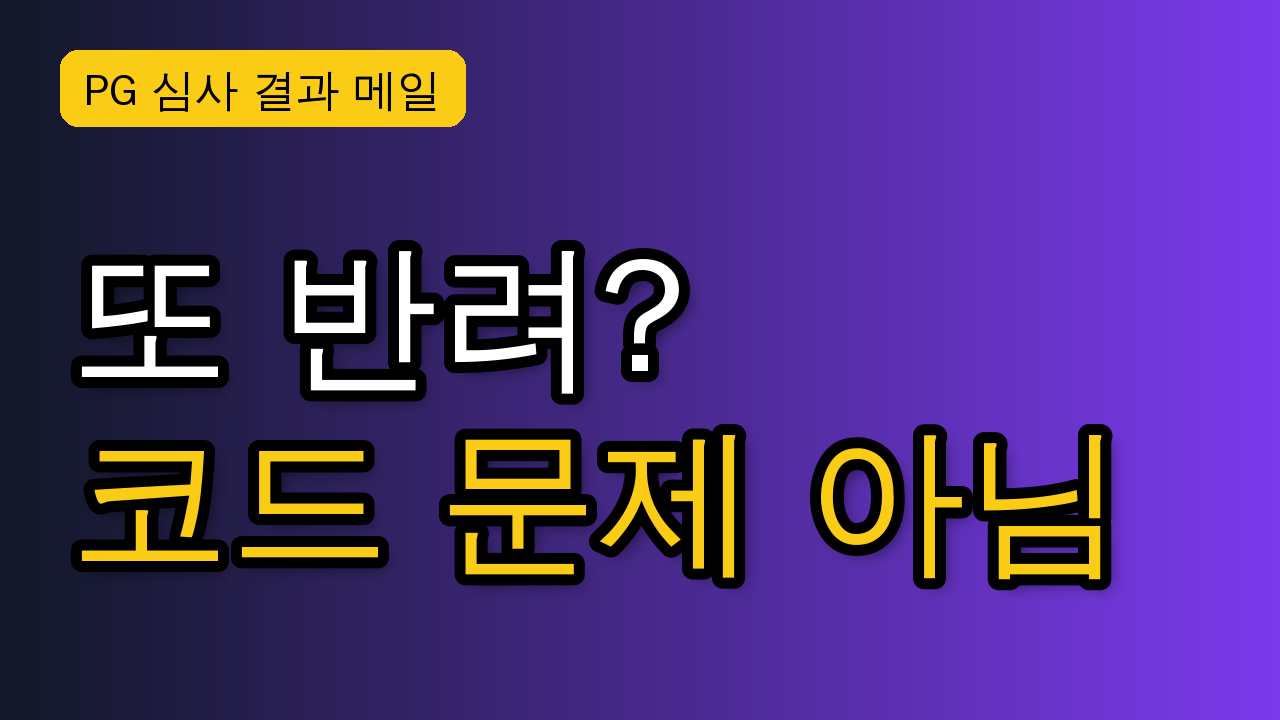
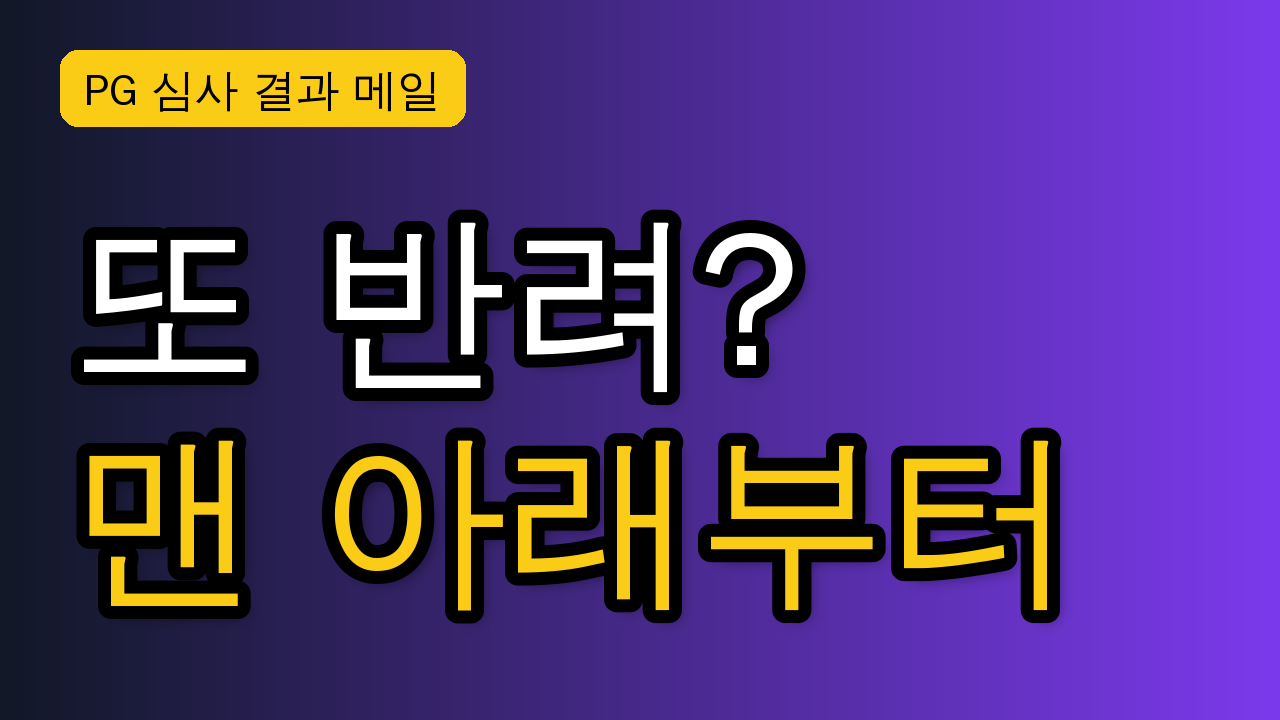
Apply first compliance review fixes to VibePay V2
Soften unsupported claims, correct source attribution, move the UTM
link to the first description line, replace the unclear fee line
pending confirmation, and rerender thumbnails A and B.

Claude-Session: https://claude.ai/code/session_0174QVYmDZzduetZizMu3yRM

Changed region(s): [[0.0312, 0.275, 0.875, 0.8861]]

diff --git a/episodes/vibepay/20261108-pg-reject-top7/review.md b/episodes/vibepay/20261108-pg-reject-top7/review.md
@@ -1,0 +1,59 @@
+# 컴플라이언스 검수: PG 심사 반려 사유 TOP 7 (vibepay V2)
+- 에피소드 id: 20261108-pg-reject-top7
+- 검수: compliance-reviewer · 2026-11-08
+- 대상: script.md, shorts.md, thumbnail.md, thumbnail_A/B/C.png(문구), metadata.json
+- 기준: brands/vibepay.md §4·§5·§6, research.md, brief.md(승인 ① 결과, 법령 확인 업데이트), CLAUDE.md 절대 규칙
+
+판정: FAIL
+
+(심각도 높음 1건: 설명란 "연관리비: 월 22,000원" 단위 모순. 이 줄만 고치면 나머지는 중간/낮음이라 재검수 시 PASS가 가능합니다. 중간 항목도 게시 전에 함께 반영하길 권장합니다.)
+
+## 체크리스트 결과 요약
+| 항목 | 결과 | 비고 |
+|---|---|---|
+| 바이브페이 주장 = §4 사실표 | 통과 | 8:40~9:14 개인 유형 신청, 준비물 6종, 영업일 기준 1~3일, 연동문서 이메일 + AI 명령문, 외부 API·서버 기능 필요, 신청만으로 활성화되지 않음 → 모두 §4와 일치 |
+| 심사 대행/지원/통과 보장 뉘앙스 | 통과 | "한 가지 경로 예시"로 소개. 8:22·설명란에 "통과 보장 아님" 명시. 쇼츠는 바이브페이 언급 없음 |
+| 심사 기간 표현 | 통과 | "영업일 기준 1~3일"만 사용(D+1 미사용) |
+| 수수료·가입비·관리비 숫자 위치 | 통과(설명란 표기 오류 1건은 #1) | script·shorts·썸네일 3장에 숫자 없음. 8:40 캡처 블러/크롭 지시 있음. 6:10 29,000/39,000원은 가상 상품 가격이며 "예시" 표기 지시 있음 |
+| 입증 불가 표현(100%·무조건·보장·최저·1위) | 통과 | 해당 표현 없음. "확실히"(8:22)만 완화 권장(#9) |
+| 전자상거래법 제13조 인용 | 통과 | "신고했다면 신고번호도 표시" 수준으로 brief 범위 안 |
+| 통신판매업 면제 기준 수치 | 통과 | 수치 없음, "관할 시·구청 확인"만 언급 |
+| 제10조 인용 | 조건부 | 항목 자체는 공정위 의결서(1차 출처)와 일치. 적용 대상 서술이 넓음(#4), 법령 원문 재확인 기록 없음(사람 확인) |
+| 청약철회 언급(4:20, 쇼츠 3) | 통과(출처 보강 권장 #10) | 조항·기간·조건 단정 없음 |
+| 면책 문구 | 부분 통과 | 대본 1:24·2:10, 쇼츠 1·3 있음. 설명란에 "전문가 확인 권장" 문구가 빠짐(#5) |
+| 타사 언급 | 통과(보완 #6·#8) | 내레이션은 "PG사 안내 자료"로 중립. 사명은 출처 표에만. 비방 없음 |
+| 썸네일·제목·설명 일치 | 보완 필요 | B안 "10분", A안 "코드 문제 아님"(#2·#3) |
+| UTM | 통과(위치 #7) | utm_source=youtube&utm_medium=video&utm_campaign=20261108-pg-reject-top7 형식 정확 |
+| containsSyntheticMedia | 사람 확인 | 현재 false. 상황극·썸네일 인물을 AI로 만들면 true |
+| madeForKids | 통과 | false |
+| privacyStatus | 통과 | private, publishAt 비어 있음(승인 ② 후 기입) |
+
+## 문제 목록
+| # | 파일 | 위치 | 문제 | 심각도 | 수정안 |
+|---|---|---|---|---|---|
+| 1 | metadata.json | description "■ 바이브페이 이용 조건" 3번째 줄 | "연관리비: 월 22,000원 (공통)" — 항목명은 '연'인데 금액은 '월'이라 단위가 모순됨. 사이트 원문 표기를 그대로 옮긴 것이지만, 설명란 요금 표기는 광고 표시라 연 22,000원인지 월 22,000원(연 264,000원)인지에 따라 시청자 부담이 12배 차이 남. 승인 ①의 "정확히" 조건도 충족하지 못함. brands/vibepay.md §4에도 같은 모순이 있음 | 높음 | 바이브페이 담당자에게 단위를 확인한 뒤 아래 중 하나로 교체. (연 단위로 확인되면) `- 연 관리비: 22,000원 (공통, 연 1회)` / (월 단위로 확인되면) `- 관리비: 월 22,000원 (공통)` / (게시 전까지 확인이 안 되면 이 줄을 지우고) `- 관리비 등 세부 요금은 바이브페이 사이트에서 확인하세요` |
+| 2 | thumbnail.md, thumbnail_B.png | B안 문구 "AI 한 줄로 / 10분 수정" | 영상 어디에도 "10분이면 고친다"는 내용이 없음(brief 핵심 메시지에만 있음). 영상은 프롬프트 7줄인데 "한 줄로"라고 해서 작업량을 실제보다 작게 보이게 함. 썸네일-내용 불일치(오해 유발 메타데이터) 소지 | 중간 | 문구를 `AI 프롬프트로 / 바로 수정`으로 바꾸거나, 1줄 `프롬프트 7줄` / 2줄 `그대로 공개`로 교체. "10분"을 유지하려면 대본 7:50에 "7개 다 고치는 데 10분이면 충분해요" 같은 문장을 넣고 실제 시연 시간으로 확인할 것 |
+| 3 | script.md / thumbnail_A.png | 0:12 "심사원은 여러분 코드를 안 봅니다", 썸네일 A "코드 문제 아님" | 출처 없는 단정. 대본 1:10은 "대부분"이라고 하고, 사유 5(로그인 벽)는 라우트 보호 코드를 고쳐야 하는 문제라 "코드 문제 아님"과 일부 어긋남 | 중간 | 0:12 내레이션: `근데요, 심사원은 여러분 코드보다 사이트 화면을 먼저 봅니다. 비회원으로 들어가서 맨 아래부터 봐요.` / 자막: `심사원은 코드보다 화면을 본다` / 썸네일 A 2줄: `코드보다 이것` 또는 `코드 말고 화면` (쇼츠 1 1.5–5초 내레이션·자막도 같은 문장으로 맞출 것) |
+| 4 | script.md, shorts.md | script 1:38 / 쇼츠 1 컷 1 | "온라인으로 물건이나 서비스를 파는 사이트라면 첫 화면에 표시해야 하는 정보가 있어요"는 제10조 적용 대상(통신판매업자인 사이버몰 운영자)보다 넓게 말함. 2:10의 비사업자 안내와 이어 보면, 비사업자에게 적용되는지 단정한 것처럼 들릴 수 있음 | 중간 | script 1:38: `온라인 쇼핑몰처럼 통신판매를 하는 사이트라면, 전자상거래법상 첫 화면에 표시해야 하는 정보가 있어요. 상호와 대표자 이름, 주소, 전화번호, 이메일, 사업자등록번호, 이용약관, 그리고 호스팅 제공자까지요.` / 쇼츠 1 컷 1: `통신판매를 하는 사이트라면 첫 화면에 표시해야 하는 정보가 있어요.` |
+| 5 | metadata.json | description 맨 아래 ※ 문구 | CLAUDE.md 절대 규칙 5의 "일반 정보이며 전문가 확인 권장" 중 "전문가 확인 권장"이 빠짐(대본 2:10에는 있음) | 중간 | `※ 본 영상은 일반 정보이며, 구체적인 심사 기준은 PG사·카드사마다 다릅니다. 사업자등록·통신판매업 신고 여부와 면제 기준 등 세무·법률 판단은 관할 세무서·시·구청 또는 세무사 등 전문가 확인을 권장합니다. 체크리스트를 모두 갖춰도 심사 통과가 보장되지는 않습니다.` |
+| 6 | script.md, shorts.md | script 5:45 / 쇼츠 2 컷 3 화면 지시 | "PG사 안내 자료에 따르면 심사원이 비회원으로 주문할 수 있어야…"의 출처는 아임웹 블로그(웹사이트 빌더)라 PG사 자료가 아님. 출처를 잘못 옮김 | 중간 | script 5:45 내레이션: `결제 서비스나 쇼핑몰 빌더 안내 자료를 보면, 심사원이 비회원으로 주문할 수 있어야 하고, 회원 전용 서비스라면 심사용 로그인 계정을 제공하라고 안내합니다.` / 쇼츠 2 화면 표기: `출처: 쇼핑몰 빌더 안내 자료` |
+| 7 | metadata.json | description 첫 줄, pinned_comment | brands/vibepay.md §6은 UTM CTA를 "설명란 첫 줄"과 "고정 댓글"에 두라고 함. 지금은 둘째 줄에 있고 고정 댓글에는 링크가 없음. 대본 9:38 "바이브페이 링크도 설명란 첫 줄에 있어요"와도 어긋남 | 중간 | description 맨 앞을 `👉 바이브페이 시작하기: https://vibe-pay.co.kr/?utm_source=youtube&utm_medium=video&utm_campaign=20261108-pg-reject-top7\nPG 심사에서 반려되는 사유 TOP 7과, …` 순서로 바꾸고, pinned_comment 끝에 `\n\n👉 바이브페이 시작하기: https://vibe-pay.co.kr/?utm_source=youtube&utm_medium=video&utm_campaign=20261108-pg-reject-top7` 추가 |
+| 8 | script.md | 3:30·5:45 PG사 안내 자료 캡처, 7:50 AI 코딩 도구 화면 녹화 | shorts.md에는 "사명·로고 크롭, 로고 없는 채팅 UI" 지시가 있지만 롱폼 대본에는 없음. 3:30은 "출처 표기"만 있어 타사 로고·UI가 그대로 나올 수 있음 | 낮음 | 화면 지시를 `PG사 안내 자료 캡처(본문 문장만 크롭, 사명·로고 제외. 출처는 하단 작은 글씨로 "출처: 설명란 참고")`로, 7:50은 `로고 없는 범용 채팅 UI 목업 또는 툴 로고·메뉴 영역 크롭`으로 수정 |
+| 9 | script.md | 8:22 | "'없는 페이지' 때문에 떨어지는 일은 확실히 줄일 수 있죠" — "확실히"는 결과를 단정함 | 낮음 | `대신 "없는 페이지" 때문에 떨어질 가능성은 줄일 수 있어요.` |
+| 10 | script.md, shorts.md | script 4:20 / 쇼츠 3 42–47초, 출처 표 | 청약철회 언급은 단정적이지 않아 표현은 통과. 다만 "법으로 정해진 부분이 있다"는 주장의 출처가 출처 표에 없음. "PG사 안내"는 청약철회 기준을 정하는 곳이 아님 | 낮음 | 4:20: `디지털 콘텐츠도 청약철회에 관해 법으로 정해진 부분이 있어서, 구체적인 조건은 관할 기관 안내를 꼭 확인하세요.` 그리고 출처 표에 전자상거래법 청약철회 조항의 국가법령정보센터 링크를 추가(조항 번호·원문은 사람이 확인한 뒤 기입) |
+| 11 | thumbnail.md, thumbnail_C.png | C안 "7개 중 4개 / 빈 페이지" | thumbnail.md는 "대본 사유 1~4 구간에서 4개라는 분류를 보여줄 것"이라고 했지만 대본에 그런 장면이 없음. 사유 1은 푸터 정보 누락(페이지 아님)이라 A/B 테스트에서 C안이 노출되면 내용과 조금 어긋남 | 낮음 | 대본 1:10 자막에 `7개 중 4개(1~4번) = 없거나 비어 있는 페이지·정보` 한 줄 추가, 또는 C안 2줄을 `빈 칸 때문`으로 교체 |
+| 12 | metadata.json | description 챕터 "0:00 반려 메일, 사유는 왜 안 알려줄까" | 영상은 사유를 왜 안 알려주는지 설명하지 않음(챕터 제목-내용 불일치) | 낮음 | `0:00 반려 메일, 사유는 뭘까` (script.md 챕터 목록도 같이 수정) |
+| 13 | metadata.json | description "■ 참고 출처" 바이브페이 줄 | https://vibepay-makers.copperlime.chatgpt.site/ 는 공식 도메인이 아닌 외부 호스팅 주소. 시청자에게 공개할 공식 페이지인지 확인되지 않음 | 낮음 | 확인 전까지 `- 바이브페이: https://vibe-pay.co.kr/` 만 남김 |
+| 14 | shorts.md | 쇼츠 3 컷 2 "BGM" | BGM 출처·라이선스 지정이 없음 | 낮음 | 화면 지시에 `BGM: YouTube 오디오 보관함 등 라이선스 확인된 음원(곡명·라이선스를 편집 메모에 기록)` 추가 |
+| 15 | (폴더) | shorts_*.json 없음 | 파이프라인 6단계 산출물인 쇼츠 메타데이터가 없어 쇼츠 3편의 madeForKids·containsSyntheticMedia·privacyStatus를 확인할 수 없음 | 낮음 | seo-publisher가 shorts_1~3.json을 만든 뒤(madeForKids: false, privacyStatus: private, containsSyntheticMedia는 제작 방식에 맞게) 쇼츠만 재검수 |
+
+## 사람 확인 필요 항목:
+1. **연관리비 단위(#1, 높음)**: 바이브페이 사이트 원문이 "연관리비 / 월 22,000원"으로 연·월이 모순됨. 담당자에게 실제 부과 단위(연 1회 22,000원인지, 매월 22,000원인지)를 확인하고 metadata.json 설명란과 brands/vibepay.md §4를 같이 고칠 것. 확인 전에는 게시 불가.
+2. **containsSyntheticMedia**: 현재 false. 5:20 상황극(쇼츠 2 포함)이나 내레이션에 AI 음성·AI 아바타를 쓰거나, 썸네일 실사 배경 인물을 thumbnail.md 프롬프트대로 AI로 만들면 true로 바꿀 것(CLAUDE.md 절대 규칙 4).
+3. **썸네일 최종본 재검수**: 현재 PNG 3장은 단색 시안. 실사 배경(인물·화면 캡처)으로 바꾼 최종본에 실존 인물, 타사 로고·UI, 읽히는 사업자번호가 없는지 다시 확인. 폰트(Pretendard 등)는 상업 이용 가능한 라이선스인지 확인. 브랜드 컬러는 §7 [확인 필요] 상태.
+4. **전자상거래법 제10조 원문 재확인**: brief 컴플라이언스 메모는 "법적 표시 항목은 법령 원문으로 대본 전 재확인"을 요구했지만, 법령 확인 업데이트에는 제13조와 면제 기준만 기록되어 있음. 제10조 표시 항목(호스팅 제공자 포함, 시행령 위임 항목)을 법령 원문으로 확인했는지 기록할 것.
+5. **비사업자 판매의 세무·법적 의무**: 8:32~8:40 "사업자도 아닌데…", 챕터 "사업자 없이 결제 붙이는 경로 예시"는 §4 사실(개인 유형 신청 가능)과 일치하고 법적 구조(하위가맹점 등)는 설명하지 않아 통과시켰음. 다만 판매가 계속되면 사업자등록·통신판매업 신고가 필요할 수 있다는 점을 영상에 넣을지 담당자가 판단할 것. 넣는다면 문장 예시: `판매 규모나 방식에 따라 사업자등록이나 통신판매업 신고가 필요할 수 있으니, 관할 세무서와 시·구청에 꼭 확인해 주세요.` (§4 "법적 구조" [확인 필요]는 여전히 미해결)
+6. **바이브페이 연동 데모 화면**: script 9:03 화면 지시에 "[확인 필요: 담당자 제공 데모 녹화]"가 남아 있음. 실제 녹화를 받지 못하면 흐름도만 쓰고, 연동이 끝나는 장면을 꾸며 넣지 말 것.
+7. **vibepay-makers.copperlime.chatgpt.site 공개 여부(#13)**: 설명란·출처 표에 공개해도 되는 공식 페이지인지 확인.
+8. **편집본 최종 확인**: 8:40 이후 바이브페이 사이트 캡처에서 수수료·가입비·관리비 숫자가 블러/크롭되었는지, 1:58 신고번호와 6:10 가격에 "예시" 표기가 들어갔는지 렌더본에서 확인.
+9. **승인 ② 후 메타데이터**: publishAt(ISO8601, +09:00) 기입, privacyStatus는 private 유지, playlist_id 기입. 공개(public) 전환은 사람이 명시적으로 승인할 때만.

diff --git a/episodes/vibepay/20261108-pg-reject-top7/script.md b/episodes/vibepay/20261108-pg-reject-top7/script.md
@@ -18,7 +18,7 @@
 | 시간 | 내레이션 | 화면/B-roll | 자막 강조 |
 |---|---|---|---|
 | **0:00** 훅 | "PG 심사 결과 안내드립니다. 반려되었습니다." …네, 또요. 사유는요? 그냥 "사이트 보완 후 재신청 바랍니다." 뭘 보완하라는 건지 모르겠고, 코드는 다 돌아가는데 말이죠. | 메일함 화면. 제목 "[심사 결과] 반려 안내" 클릭 → 본문 한 줄 확대. 화면 살짝 흔들림 효과 | 반려되었습니다. 사유는요? |
-| 0:12 | 근데요, 심사원은 여러분 코드를 안 봅니다. 사이트를 비회원으로 들어가서 맨 아래부터 봐요. | [PI] 코드 에디터 화면이 확 꺼지고 → 사이트 푸터로 스크롤 다운 | 심사원은 코드를 안 본다 |
+| 0:12 | 근데요, 심사에서 먼저 보는 건 코드보다 사이트예요. 손님처럼 들어가서 맨 아래까지 훑어봅니다. | [PI] 코드 에디터 화면이 확 꺼지고 → 사이트 푸터로 스크롤 다운 | 심사는 코드보다 사이트부터 |
 | 0:20 | 오늘 반려 사유 TOP 7을 하나씩 짚고, 사유마다 AI에게 그대로 붙여 넣을 프롬프트 한 줄씩 드릴게요. 영상 끝나면 바로 고칠 수 있게요. | 7개 항목 체크박스가 빈 상태로 쭉 나열 + 프롬프트 말풍선 아이콘 | 반려 사유 7개 + 프롬프트 7줄 |
 | 0:32 인사 | 안녕하세요, 바이브코더의 결제 고민을 같이 푸는 채널입니다. Cursor든 Claude Code든, 어떤 AI 코딩 도구를 쓰셔도 똑같이 쓸 수 있으니까 끝까지 따라와 주세요. | 진행자 원샷 + 채널 로고 | |
 | **0:40** 심사 구조 | 먼저 구조부터요. 카드 결제를 붙이려면 보통 심사를 두 번 거칩니다. PG사 심사, 그리고 카드사 심사. | [PI] 2단계 도식 애니메이션: 신청 → PG사 심사 → 카드사 심사 → 승인 | PG사 심사 + 카드사 심사 |
@@ -26,7 +26,7 @@
 | 1:10 | 그래서 반려 사유 대부분은 기술 문제가 아니에요. "없는 페이지"예요. 그리고 AI로 만든 사이트는 이 페이지들이 특히 잘 빠집니다. 왜냐, 우리가 AI한테 "기능"만 시켰거든요. | [PI] 질문 카드: "AI한테 약관 만들어 달라고 한 적 있나요?" → 체크 0개 | 반려 사유 대부분 = 없는 페이지 |
 | 1:24 | 참고로 오늘 내용은 일반 정보예요. 구체적인 심사 기준은 PG사·카드사·관할 기관마다 다르니까, 꼭 본인이 신청하는 곳 안내를 같이 확인해 주세요. | 하단 고정 면책 자막 바 | 일반 정보이며 구체적 기준은 PG사·카드사·관할 기관마다 다릅니다 |
 | **1:30** 사유 1 ✂SHORTS-1 시작 | 반려 사유 1번. 사이트 하단 사업자 정보 누락. 제일 흔하고, 제일 쉽게 고칩니다. | [PI] 큰 숫자 "1" 전환 + 텅 빈 푸터 화면 (© 2026 MyApp 한 줄뿐) | #1 하단 정보 누락 |
-| 1:38 | 온라인으로 물건이나 서비스를 파는 사이트라면 첫 화면에 표시해야 하는 정보가 있어요. 상호와 대표자 이름, 주소, 전화번호, 이메일, 사업자등록번호, 이용약관, 그리고 호스팅 제공자까지요. | 항목이 하나씩 체크되며 푸터가 채워지는 애니메이션 | 상호·대표자 / 주소 / 전화 / 이메일 / 사업자등록번호 / 이용약관 / 호스팅 제공자 ※ 전자상거래법 제10조 |
+| 1:38 | 전자상거래법은 온라인 쇼핑몰 같은 사이버몰 운영자가 첫 화면에 표시해야 하는 정보를 정해 두고 있어요. 내 서비스가 해당되는지는 관할 기관에 확인하시고요. 상호와 대표자 이름, 주소, 전화번호, 이메일, 사업자등록번호, 이용약관, 그리고 호스팅 제공자까지요. | 항목이 하나씩 체크되며 푸터가 채워지는 애니메이션 | 상호·대표자 / 주소 / 전화 / 이메일 / 사업자등록번호 / 이용약관 / 호스팅 제공자 ※ 전자상거래법 제10조 |
 | 1:58 | 통신판매업 신고를 했다면 신고번호도 같이 표시해야 하고요. 신고 대상인지, 면제 기준에 해당하는지는 관할 시·구청에 먼저 확인해 보세요. | 푸터에 "통신판매업 신고번호: 제0000-서울○○-0000호" 예시 줄 추가 (더미 값 표시) | 신고했다면 신고번호도 표시 ※ 전자상거래법 제13조 / 면제 기준은 관할 시·구청 확인 |
 | 2:10 | 아직 사업자가 아니시라면, 어떤 정보를 어떻게 보여 줄지는 이용하는 PG사나 결제 서비스 안내를 따르시면 됩니다. 세무·법률 판단은 세무사나 관할 기관에 확인하시는 게 안전해요. | [PI] 진행자 원샷, 손가락으로 "주의" 제스처 | 일반 정보이며 세무사·관할 기관 확인 권장 |
 | 2:20 | AI에게 이렇게 시키세요. | 프롬프트 카드 등장 (코드 블록 스타일) | **AI에게 이렇게 시키세요** "사이트 모든 페이지 하단에 공통 푸터를 만들어 줘. 상호 [상호], 대표자 [대표자명], 주소 [주소], 전화 [전화번호], 이메일 [이메일], 사업자등록번호 [사업자등록번호], 통신판매업 신고번호 [신고번호], 호스팅 제공자 [호스팅 업체]를 넣고, 이용약관·개인정보처리방침·환불정책 링크도 함께 달아 줘." |
@@ -47,7 +47,7 @@
 | **5:20** 사유 5 ✂SHORTS-2 시작 | 5번. 이건 상황극으로 보여 드릴게요. | [PI] 화면 전환: 상황극 세트. 좌측 "심사원", 우측 "바이브코더" 자막 이름표 | #5 로그인 벽 |
 | 5:25 | (심사원) "자, 상품 좋네요. 결제 버튼 누르고…" 딸깍. "…로그인하세요?" "회원가입… 이메일 인증…?" | 심사원 POV: 결제 버튼 클릭 → 로그인 모달 팝업 → 회원가입 → "인증 메일을 확인하세요" 화면. 효과음 "띵" | 결제 버튼 → 로그인하세요 |
 | 5:38 | (바이브코더) "아니 그건 보안 때문에…" (심사원) "결제 화면까지 못 가 봤으니까요. 반려입니다." | 바이브코더 당황한 표정 클로즈업 → 도장 "반려" 쾅 | 결제까지 못 가면 반려 |
-| 5:45 | 웃기지만 진짜 많아요. 바이브코딩 템플릿은 보통 모든 페이지를 로그인 뒤에 숨겨 두거든요. PG사 안내 자료에 따르면 심사원이 비회원으로 주문할 수 있어야 하고, 회원 전용 서비스라면 심사용 로그인 계정을 제공하라고 안내합니다. | 진행자 원샷 + PG사 안내 자료 캡처(출처 표기) | 비회원 결제 가능하게, 아니면 심사용 계정 제공 |
+| 5:45 | 웃기지만 진짜 많아요. 바이브코딩 템플릿은 보통 모든 페이지를 로그인 뒤에 숨겨 두거든요. 쇼핑몰 플랫폼 안내 자료에 따르면 심사원이 비회원으로 주문할 수 있어야 하고, 회원 전용 서비스라면 심사용 로그인 계정을 제공하라고 안내합니다. | 진행자 원샷 + 쇼핑몰 플랫폼 안내 자료 캡처(사명·로고 크롭, 출처 표기) | 비회원 결제 가능하게, 아니면 심사용 계정 제공 |
 | 5:58 | AI에게 이렇게 시키세요. 한 줄 요약, 결제 버튼 앞에 로그인 벽을 세우지 마세요. 꼭 필요하면 심사용 계정을 신청서에 같이 적어 주세요. ✂SHORTS-2 끝 | 프롬프트 카드 → 라우트 목록 표 (공개 / 로그인 필요) | **AI에게 이렇게 시키세요** "비회원도 메인 → 상품 → 가격 → 결제 버튼까지 로그인 없이 볼 수 있게 라우트 보호 설정을 바꿔 줘. 결제 이후 이용 화면만 로그인이 필요하게 하고, 공개·로그인 필요 라우트를 표로 정리해 줘." / 요약: 결제 앞에 로그인 벽 금지 |
 | **6:10** 사유 6 | 6번. 신청서랑 사이트가 안 맞는다. 신청서엔 "온라인 강의 29,000원"이라고 써 놓고, 사이트엔 "39,000원"이 떠 있으면요? | [PI] 숫자 "6" 전환 + 신청서 화면과 사이트 화면 좌우 비교, 가격 부분이 빨갛게 깜빡 (예시 금액은 가상) | #6 신청서 ≠ 사이트 |
 | 6:25 | PG사 안내 자료에서도 결제 금액이 일치하는지 본다고 해요. 상품명, 금액, 상호, 연락처, 그리고 URL까지. 특히 AI로 여러 번 고치다 보면 페이지마다 가격이 다르게 남아 있는 경우가 많아요. 메인은 옛날 가격, 결제창은 새 가격, 이런 식으로요. | 같은 상품이 메인/상세/결제창에서 서로 다른 가격으로 보이는 3분할 화면 | 상품명·금액·상호·연락처·URL 일치 |
@@ -73,7 +73,7 @@
 
 ## 설명란용 챕터 타임스탬프
 ```
-0:00 반려 메일, 사유는 왜 안 알려줄까
+0:00 반려 메일 받았다면 먼저 볼 곳
 0:40 PG 심사 구조와 심사원이 실제로 하는 일
 1:30 반려 사유 1. 하단 사업자 정보 누락
 2:40 반려 사유 2. 이용약관·개인정보처리방침 없음
@@ -106,3 +106,7 @@
 - 1:58 신고번호 예시는 더미 값임을 화면에 "예시" 표기
 - 8:40 이후 바이브페이 사이트 캡처 시 수수료·가입비·연관리비 영역은 반드시 블러/크롭 (숫자는 설명란 전용)
 - 상황극(5:20)에 AI 음성·AI 생성 인물을 쓰면 업로드 시 `containsSyntheticMedia: true`
+
+
+## 제작 메모 (검수 반영)
+- PG사·플랫폼 안내 자료 캡처는 모든 장면에서 사명·로고를 크롭하고 "출처: ○○ 안내 자료"로 표기

diff --git a/episodes/vibepay/20261108-pg-reject-top7/shorts.md b/episodes/vibepay/20261108-pg-reject-top7/shorts.md
@@ -26,7 +26,7 @@
 | 초 | 내레이션/대사 | 화면 | 자막 |
 |---|---|---|---|
 | 0.0–1.5 | PG 심사 또 반려? 사이트 맨 아래부터 보세요. | 텅 빈 푸터 풀스크린 ("© 2026 MyApp" 한 줄뿐). 상단 큰 훅 텍스트, 빨간 화살표가 푸터를 가리킴 | PG 심사 또 반려? / 사이트 맨 아래부터 보세요 |
-| 1.5–5 | 심사원은 코드를 안 봅니다. 비회원으로 들어가서 맨 아래부터 봐요. | 코드 에디터 화면이 확 꺼지고 → 사이트 푸터로 빠르게 스크롤 다운 | 심사원은 코드를 안 본다 / 맨 아래부터 본다 |
+| 1.5–5 | 심사는 코드보다 사이트부터 봅니다. 손님처럼 들어가서 맨 아래까지요. | 코드 에디터 화면이 확 꺼지고 → 사이트 푸터로 빠르게 스크롤 다운 | 코드보다 사이트부터 / 맨 아래까지 본다 |
 | 5–9 | 하단 사업자 정보 누락. 제일 흔하고, 제일 쉽게 고칩니다. | 큰 숫자 "1" 전환 + 빈 푸터 확대 | 제일 흔한 반려 사유 / 제일 쉽게 고친다 |
 | **컷 1** 9–22 | 첫 화면에 표시해야 하는 정보가 있어요. 상호와 대표자 이름, 주소, 전화번호, 이메일, 사업자등록번호, 이용약관, 그리고 호스팅 제공자까지요. | 항목이 하나씩 체크되며 푸터가 채워지는 애니메이션 (값은 더미, "예시" 표기). 하단 작은 글씨 "※ 전자상거래법 제10조" | 상호·대표자 / 주소·전화·이메일 / 사업자등록번호 / 이용약관 / 호스팅 제공자 |
 | **컷 2** 22–32 | 통신판매업 신고를 했다면 신고번호도 같이 표시하고요. 면제 기준은 관할 시·구청에 확인하세요. 아직 사업자가 아니면, 이용하는 결제 서비스 안내를 따르시면 됩니다. | 푸터에 "통신판매업 신고번호: 제0000-서울○○-0000호 (예시)" 줄 추가 → 하단 고정 면책 바 | 신고했다면 신고번호도 / 면제 기준은 시·구청 확인 / ※ 일반 정보이며 세무사·관할 기관 확인 권장 |
@@ -58,7 +58,7 @@
 | 0.0–1.5 | (심사원) 결제 버튼 눌렀더니… 로그인하래요? | 심사원 황당한 표정 클로즈업 + 모니터에 로그인 모달. 효과음 "띵". 상단 큰 훅 텍스트 | 결제 버튼 눌렀더니… / 로그인하래요? |
 | **컷 1** 1.5–13 | (심사원) 자, 상품 좋네요. 결제 버튼 누르고… (딸깍) …로그인하세요? 회원가입… 이메일 인증…? | 좌측 "심사원", 우측 "바이브코더" 이름표. 심사원 POV: 결제 버튼 클릭 → 로그인 모달 → 회원가입 → "인증 메일을 확인하세요" 화면 (가상 사이트 목업) | 상품 좋네요 / 결제 버튼 누르고… / 로그인하세요? / 회원가입… 이메일 인증…? |
 | **컷 2** 13–21 | (바이브코더) 아니 그건 보안 때문에… (심사원) 결제 화면까지 못 가 봤으니까요. 반려입니다. | 바이브코더 당황한 표정 클로즈업 → 서류에 "반려" 도장 쾅 (효과음) | 아니 그건 보안 때문에… / 결제 화면까지 못 가 봤으니까요 / 반려입니다 |
-| **컷 3** 21–37 | 웃기지만 진짜 많아요. 바이브코딩 템플릿은 보통 모든 페이지를 로그인 뒤에 숨겨 두거든요. 심사원이 비회원으로 주문할 수 있어야 하고, 회원 전용이면 심사용 계정을 신청서에 같이 적어 주세요. | 진행자 원샷 → 라우트 표 (메인·상품·가격·결제 버튼 = 공개 / 결제 이후 이용 화면 = 로그인 필요). PG사 안내 자료 캡처는 사명 크롭, "출처: PG사 안내 자료" 표기 | 웃기지만 진짜 많아요 / 비회원도 결제까지 / 회원 전용이면 심사용 계정 |
+| **컷 3** 21–37 | 웃기지만 진짜 많아요. 바이브코딩 템플릿은 보통 모든 페이지를 로그인 뒤에 숨겨 두거든요. 심사원이 비회원으로 주문할 수 있어야 하고, 회원 전용이면 심사용 계정을 신청서에 같이 적어 주세요. | 진행자 원샷 → 라우트 표 (메인·상품·가격·결제 버튼 = 공개 / 결제 이후 이용 화면 = 로그인 필요). 쇼핑몰 플랫폼 안내 자료 캡처는 사명 크롭, "출처: 쇼핑몰 플랫폼 안내 자료" 표기 | 웃기지만 진짜 많아요 / 비회원도 결제까지 / 회원 전용이면 심사용 계정 |
 | 37–38 | 결제 앞에 로그인 벽 금지. | 라우트 표 위에 "결제 앞 로그인 벽 ✕" 스탬프 | 결제 앞에 로그인 벽 금지 |
 | 38–41 (루프) | (심사원) 자, 결제 버튼 누르고… | 상황극 세트로 복귀, 심사원 마우스 클릭 직전에서 컷 → 첫 장면(로그인 모달)으로 이어짐 | 자, 결제 버튼 누르고… |
 

diff --git a/episodes/vibepay/20261108-pg-reject-top7/thumbnail.md b/episodes/vibepay/20261108-pg-reject-top7/thumbnail.md
@@ -18,7 +18,7 @@
 | 항목 | 내용 |
 |---|---|
 | 파일 | `thumbnail_A.png` |
-| 문구 | 1줄 **또 반려?** (흰색) / 2줄 **코드 문제 아님** (옐로) |
+| 문구 | 1줄 **또 반려?** (흰색) / 2줄 **맨 아래부터** (옐로) |
 | 배지 | PG 심사 결과 메일 |
 | 구도 | 좌측 55%: 텍스트. 우측 45%: 노트북 화면에 흐릿한 "심사 결과: 반려" 메일 UI와 빨간 반려 도장, 그 앞에 인물 상반신 |
 | 인물 표정 | 이마를 짚고 화면을 보며 당황, 입이 살짝 벌어진 "또?" 표정 |
@@ -33,7 +33,7 @@ A frustrated young Korean indie developer in a hoodie, hand on forehead, staring
 | 항목 | 내용 |
 |---|---|
 | 파일 | `thumbnail_B.png` |
-| 문구 | 1줄 **AI 한 줄로** (흰색) / 2줄 **10분 수정** (옐로) |
+| 문구 | 1줄 **AI 프롬프트로** (흰색) / 2줄 **바로 수정** (옐로) |
 | 배지 | 프롬프트 그대로 공개 |
 | 구도 | 좌측: 텍스트. 우측: AI 코딩 도구 채팅창에 프롬프트 한 줄 → 옆에 완성된 "환불정책" 페이지가 생성되는 Before/After 화면 분할. 인물은 우하단에 작게 |
 | 인물 표정 | 안도의 미소, 화면을 가리키며 "됐다" 하는 밝은 표정 |
@@ -67,7 +67,7 @@ Close-up of a website footer on a large monitor with four empty placeholder bloc
 - 렌더 폰트가 시스템 대체 폰트(wqy-zenhei)라 획이 얇은 편. 최종본은 `--font Pretendard-ExtraBold.otf` 같은 굵은 고딕으로 다시 렌더할 것을 권장합니다.
 - 현재 시안은 문구가 가로로 꽉 차 있습니다(A 2줄이 약 1,100px). 실사 배경에 인물·오브젝트를 우측에 넣을 때는 텍스트가 좌측 55% 안에 들어가야 하므로, 스크립트의 최대 폭(현재 W×0.86)을 줄이거나 글자 크기를 낮춰 다시 렌더하세요.
 
-## 추천안: A안 ("또 반려?|코드 문제 아님")
+## 추천안: A안 ("또 반려?|맨 아래부터")
 - **이미 반려를 겪은 핵심 타깃(C. 초기 1인 창업자, B. 비사업자 크리에이터)이 바로 자기 일로 받아들이는 문구**입니다. "또"가 반복 반려를 겪은 시청자를 정확히 겨냥합니다.
 - "코드 문제 아님"은 제목에 없는 반전 정보이고 영상 훅(0:00 "심사원은 당신 코드를 안 봅니다")과 바로 이어져서, 클릭한 뒤 기대와 내용이 어긋나지 않습니다.
 - 제목은 해결("이것부터 고치세요"), 썸네일은 문제를 맡아 서로 역할이 겹치지 않습니다.
@@ -89,3 +89,8 @@ Close-up of a website footer on a large monitor with four empty placeholder bloc
 - [x] 실존 인물 없음. AI로 인물을 생성하면 업로드 시 `containsSyntheticMedia: true` 설정 필요 (CLAUDE.md 절대 규칙 4)
 - [x] 1280×720, 2MB 이하
 - [x] 수수료 수치 미사용 (승인 ①: 영상 내 수수료 언급 금지)
+
+## 검수 반영 (2026-11-08)
+- A안 2줄 "코드 문제 아님" → "맨 아래부터": 출처 없는 단정을 피하고, 영상 훅("손님처럼 들어가서 맨 아래까지")과 사유 1(하단 정보)에 직접 연결
+- B안 "AI 한 줄로 / 10분 수정" → "AI 프롬프트로 / 바로 수정", 배지 "프롬프트 7줄 공개": 영상에 없는 시간 약속 제거, 실제 프롬프트 7줄과 일치
+- C안 "7개 중 4개 | 빈 페이지"는 대본에 이를 직접 말하는 장면이 없어 A/B 테스트 후보에서 제외 (필요 시 대본 7:50 체크리스트에 "7개 중 4개는 페이지 하나 만들면 끝" 한 줄 추가 후 사용)
